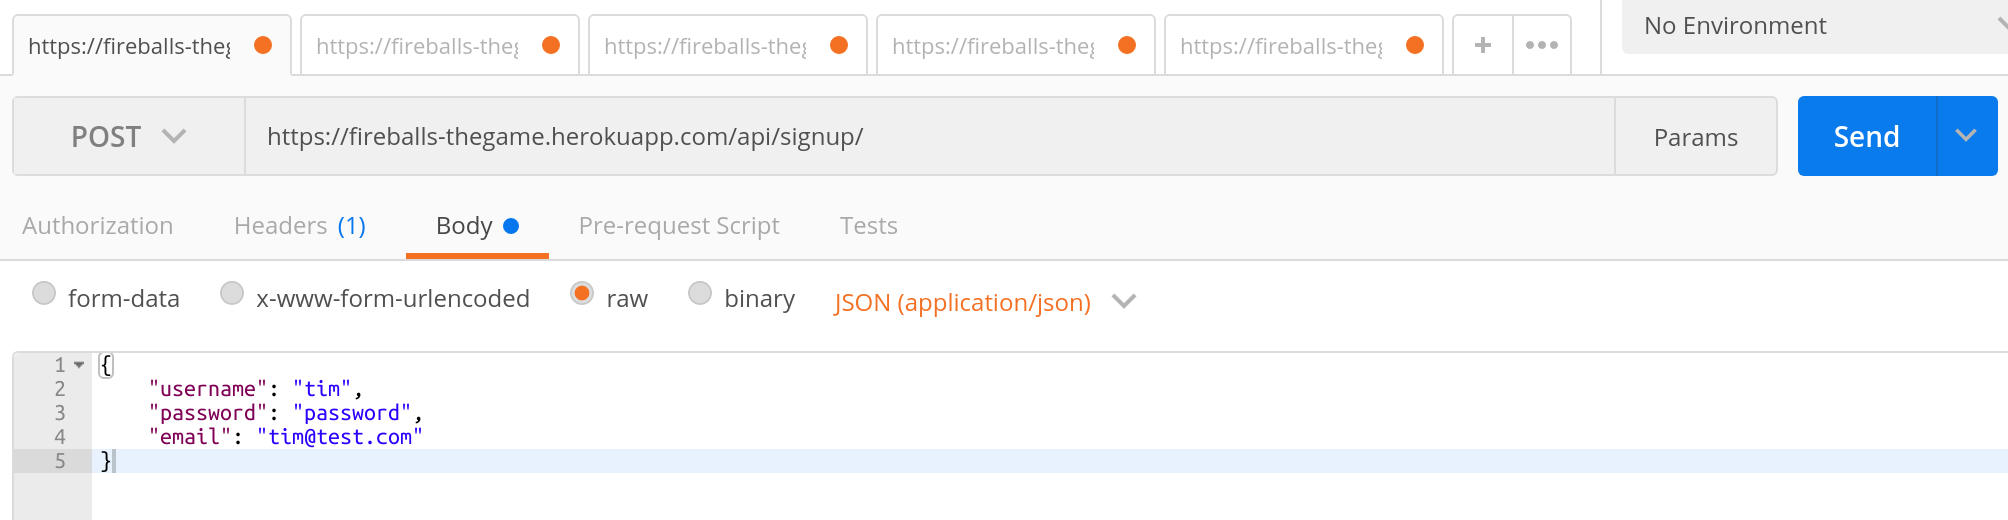
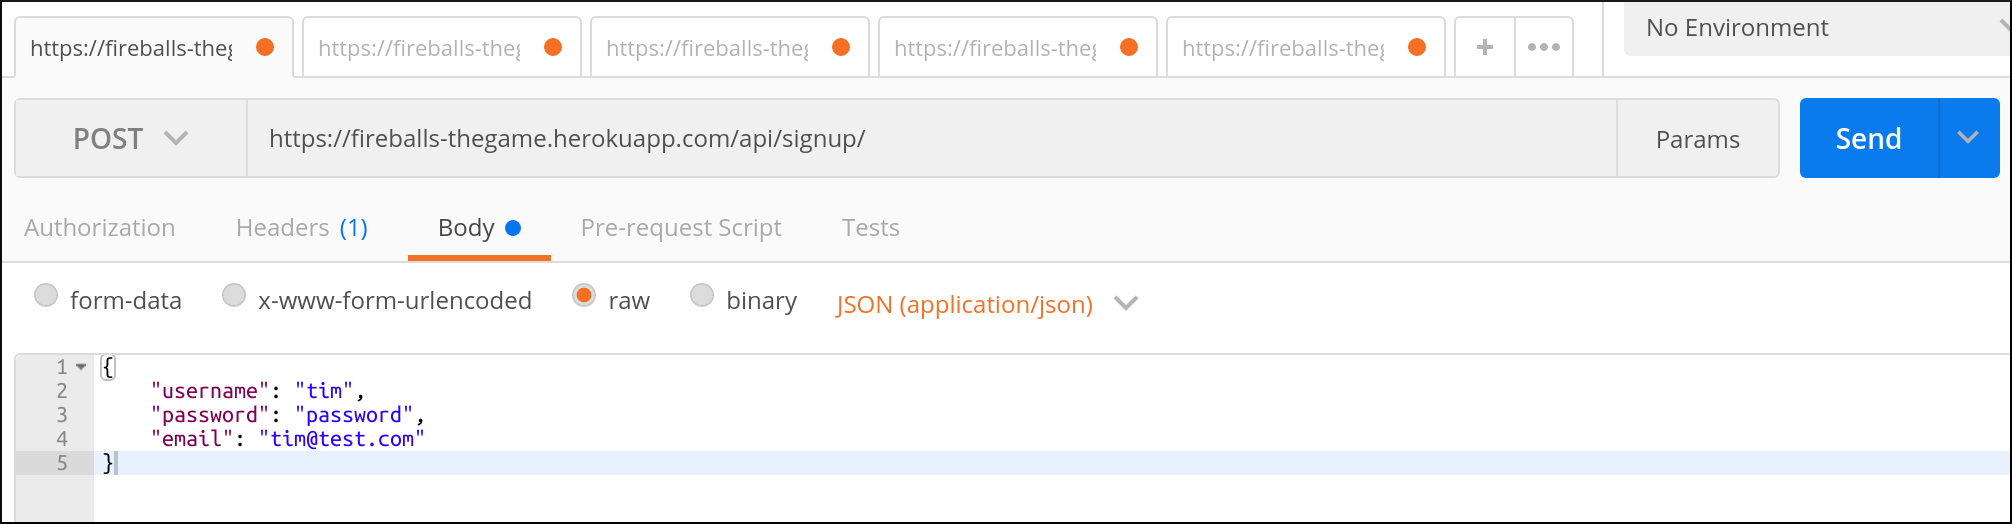
adds image borders and fixes a code bug

diff --git a/route/route-game.js b/route/route-game.js
@@ -74,7 +74,8 @@ module.exports = function(router) {
             game.save();
           }
           else {
-            errorHandler(new Error(`Cannot move in that direction. ${roomMessage}`), req, res);
+            roomMessage = mapTemp[`${game.playerLoc}`]['message'];
+            errorHandler(new Error(`Cannot move in that direction. \n${roomMessage}`), req, res);
           }
         } else {
           errorHandler(new Error('GAME OVER!  To start a new game POST to api/game/'), req, res);

diff --git a/README.md b/README.md
@@ -1,3 +1,9 @@
+<style>
+body {
+    background-color: white;
+}
+</style>
+
 # RESTful-API Game
 
 ![alt text][logo]
@@ -104,6 +110,8 @@ If you think you have located the monster, throw a fireball at him by sending a 
 If you successfully attack the monster with a fireball, he will die!  Remember, you have a limited number of fireballs.  The game is now over.  To play again, send another POST request to `/api/game/` with your API token.
 ![alt text](./img/15-PUT-attack-response-win.png "PUT to /api/game/:_id/attack/:dir/")
 
+hello there
+<kbd><img src="./img/15-PUT-attack-response-win.png" alt-text="hello"></kbd>
 
 ## Loading and Creating Custom Games
 
@@ -149,10 +157,6 @@ PORT=<a port number>
 ```
 - Create a `.env` & `.test.env` files
 
- - If youu want to use httpie, here's a sample request to show how you would format to use a token for auth:
- ```
-`http GET :5000/api/gallery/1234-5678   'Authorization:Bearer myWonderfulToken'`
-```
 - Adde multer to package.json
 - Adde a .travis.yml file
 
